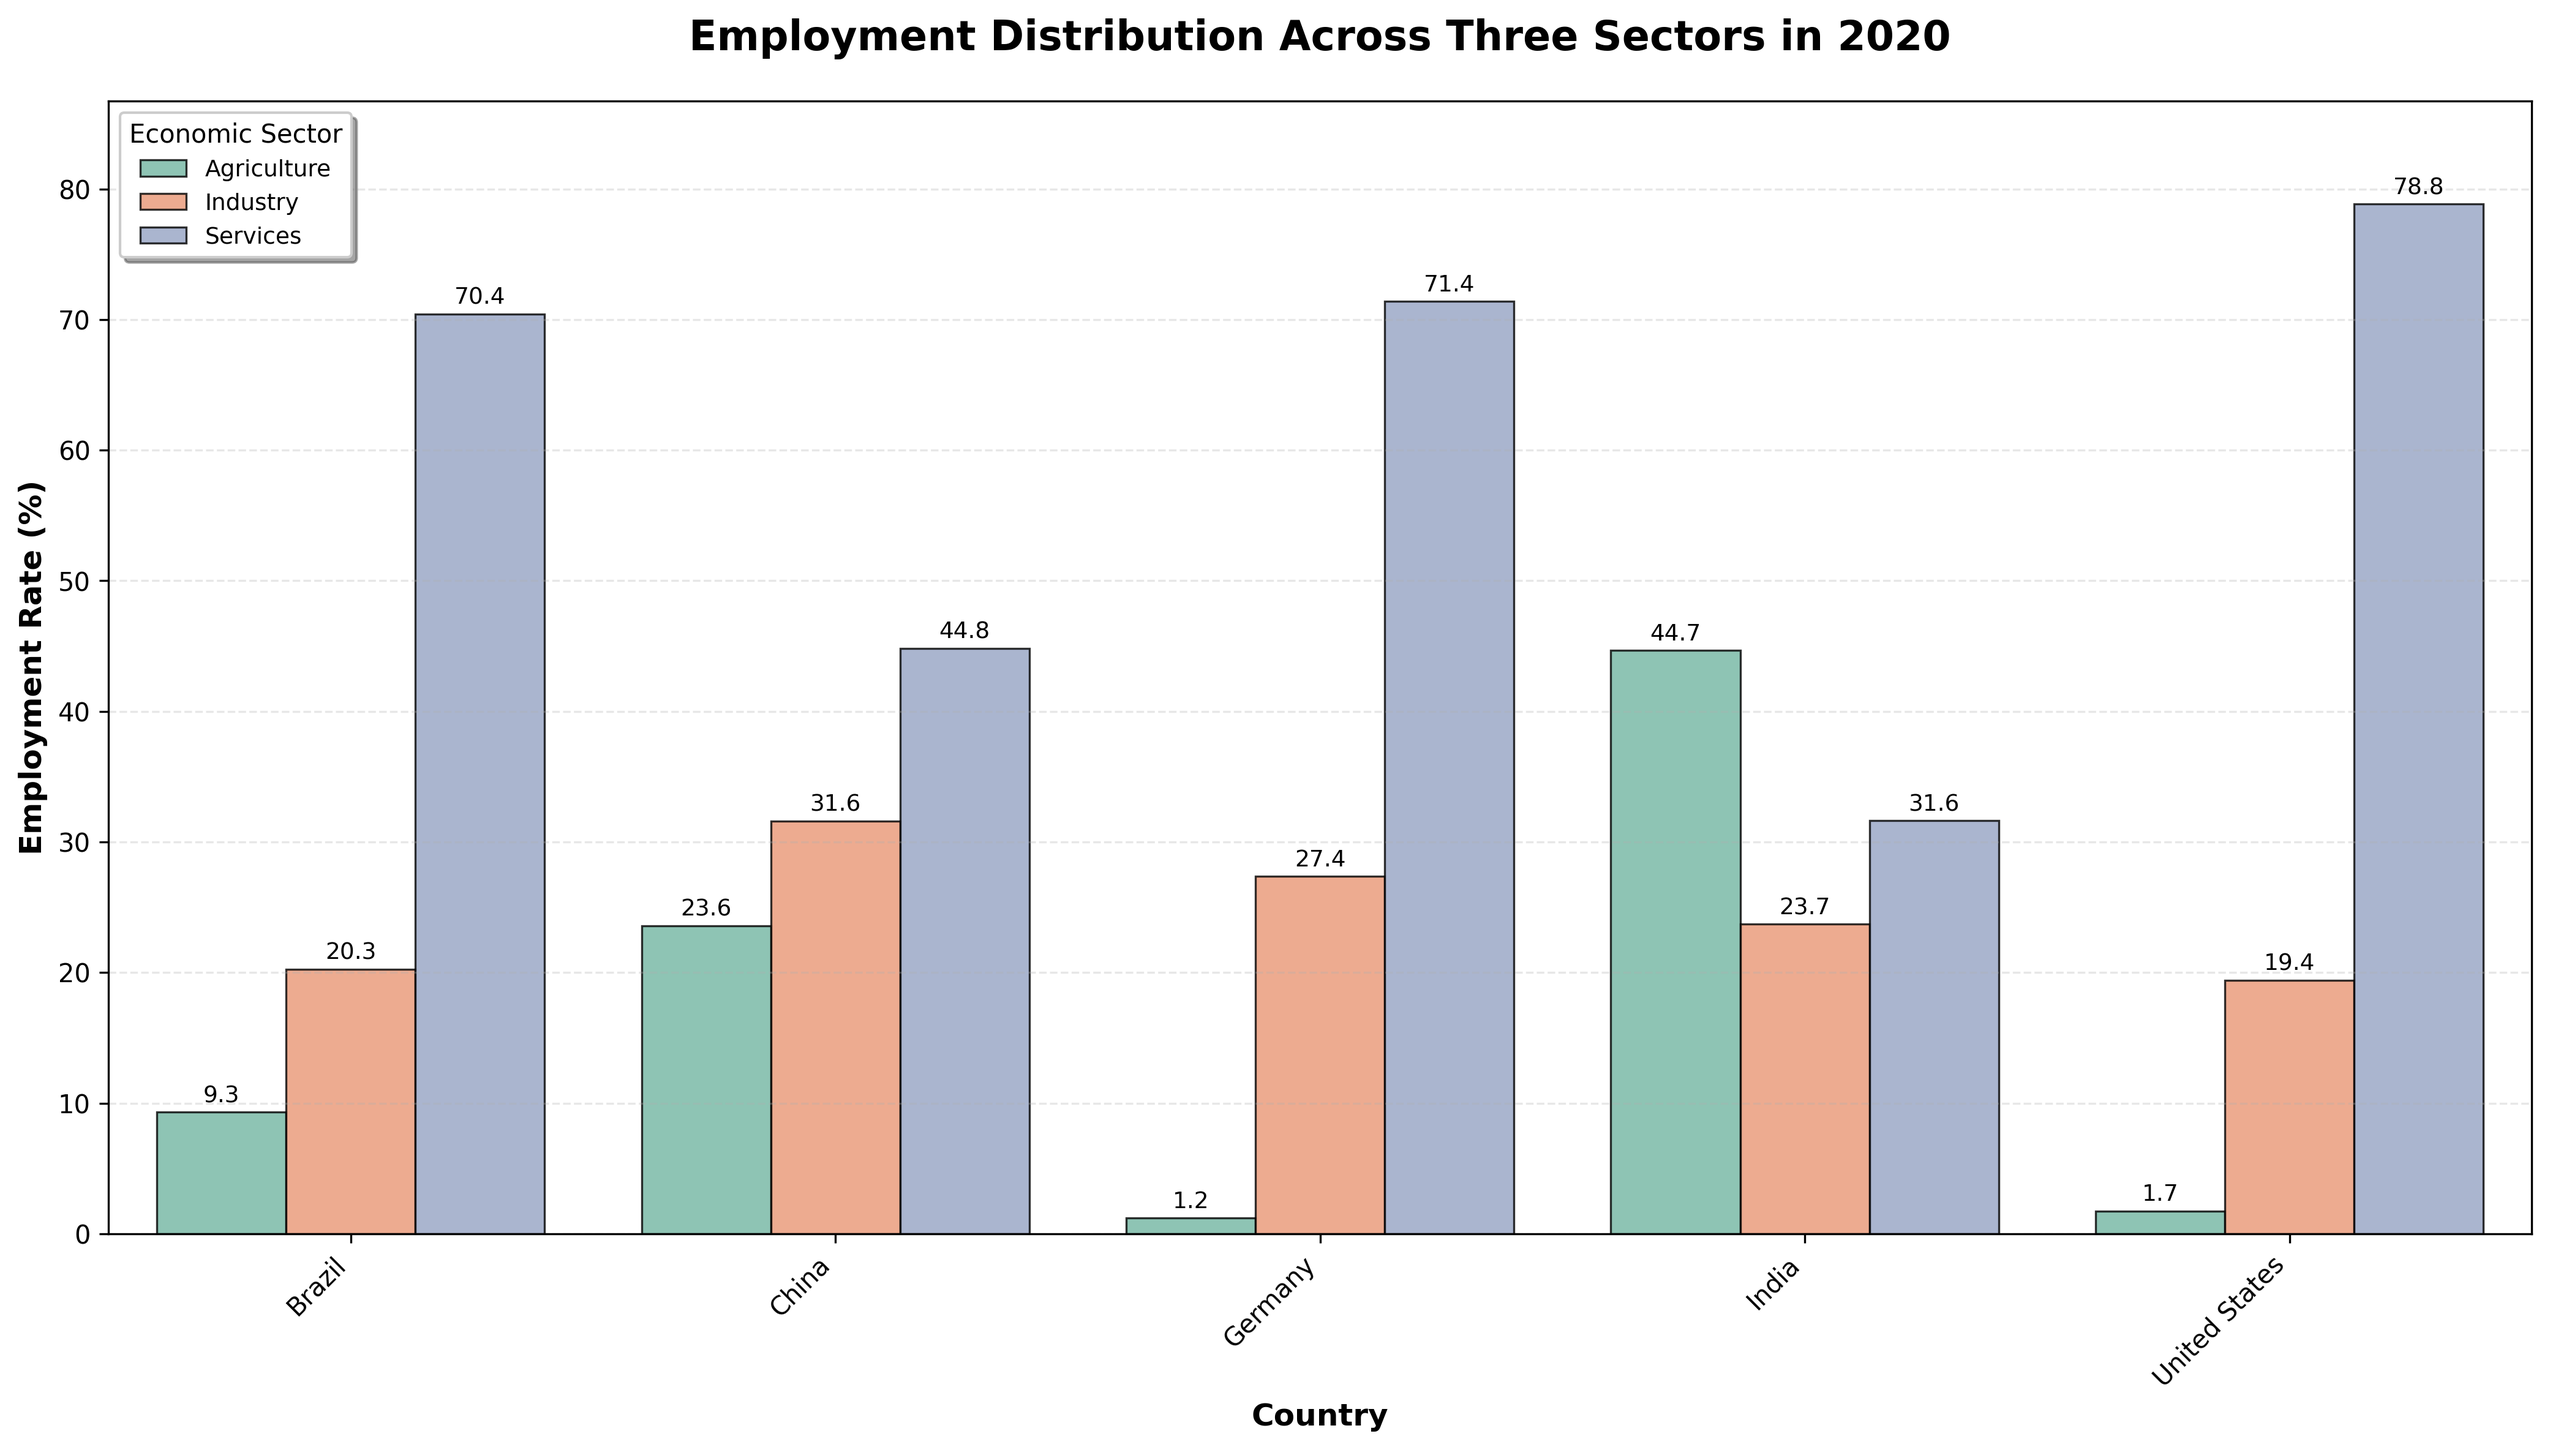
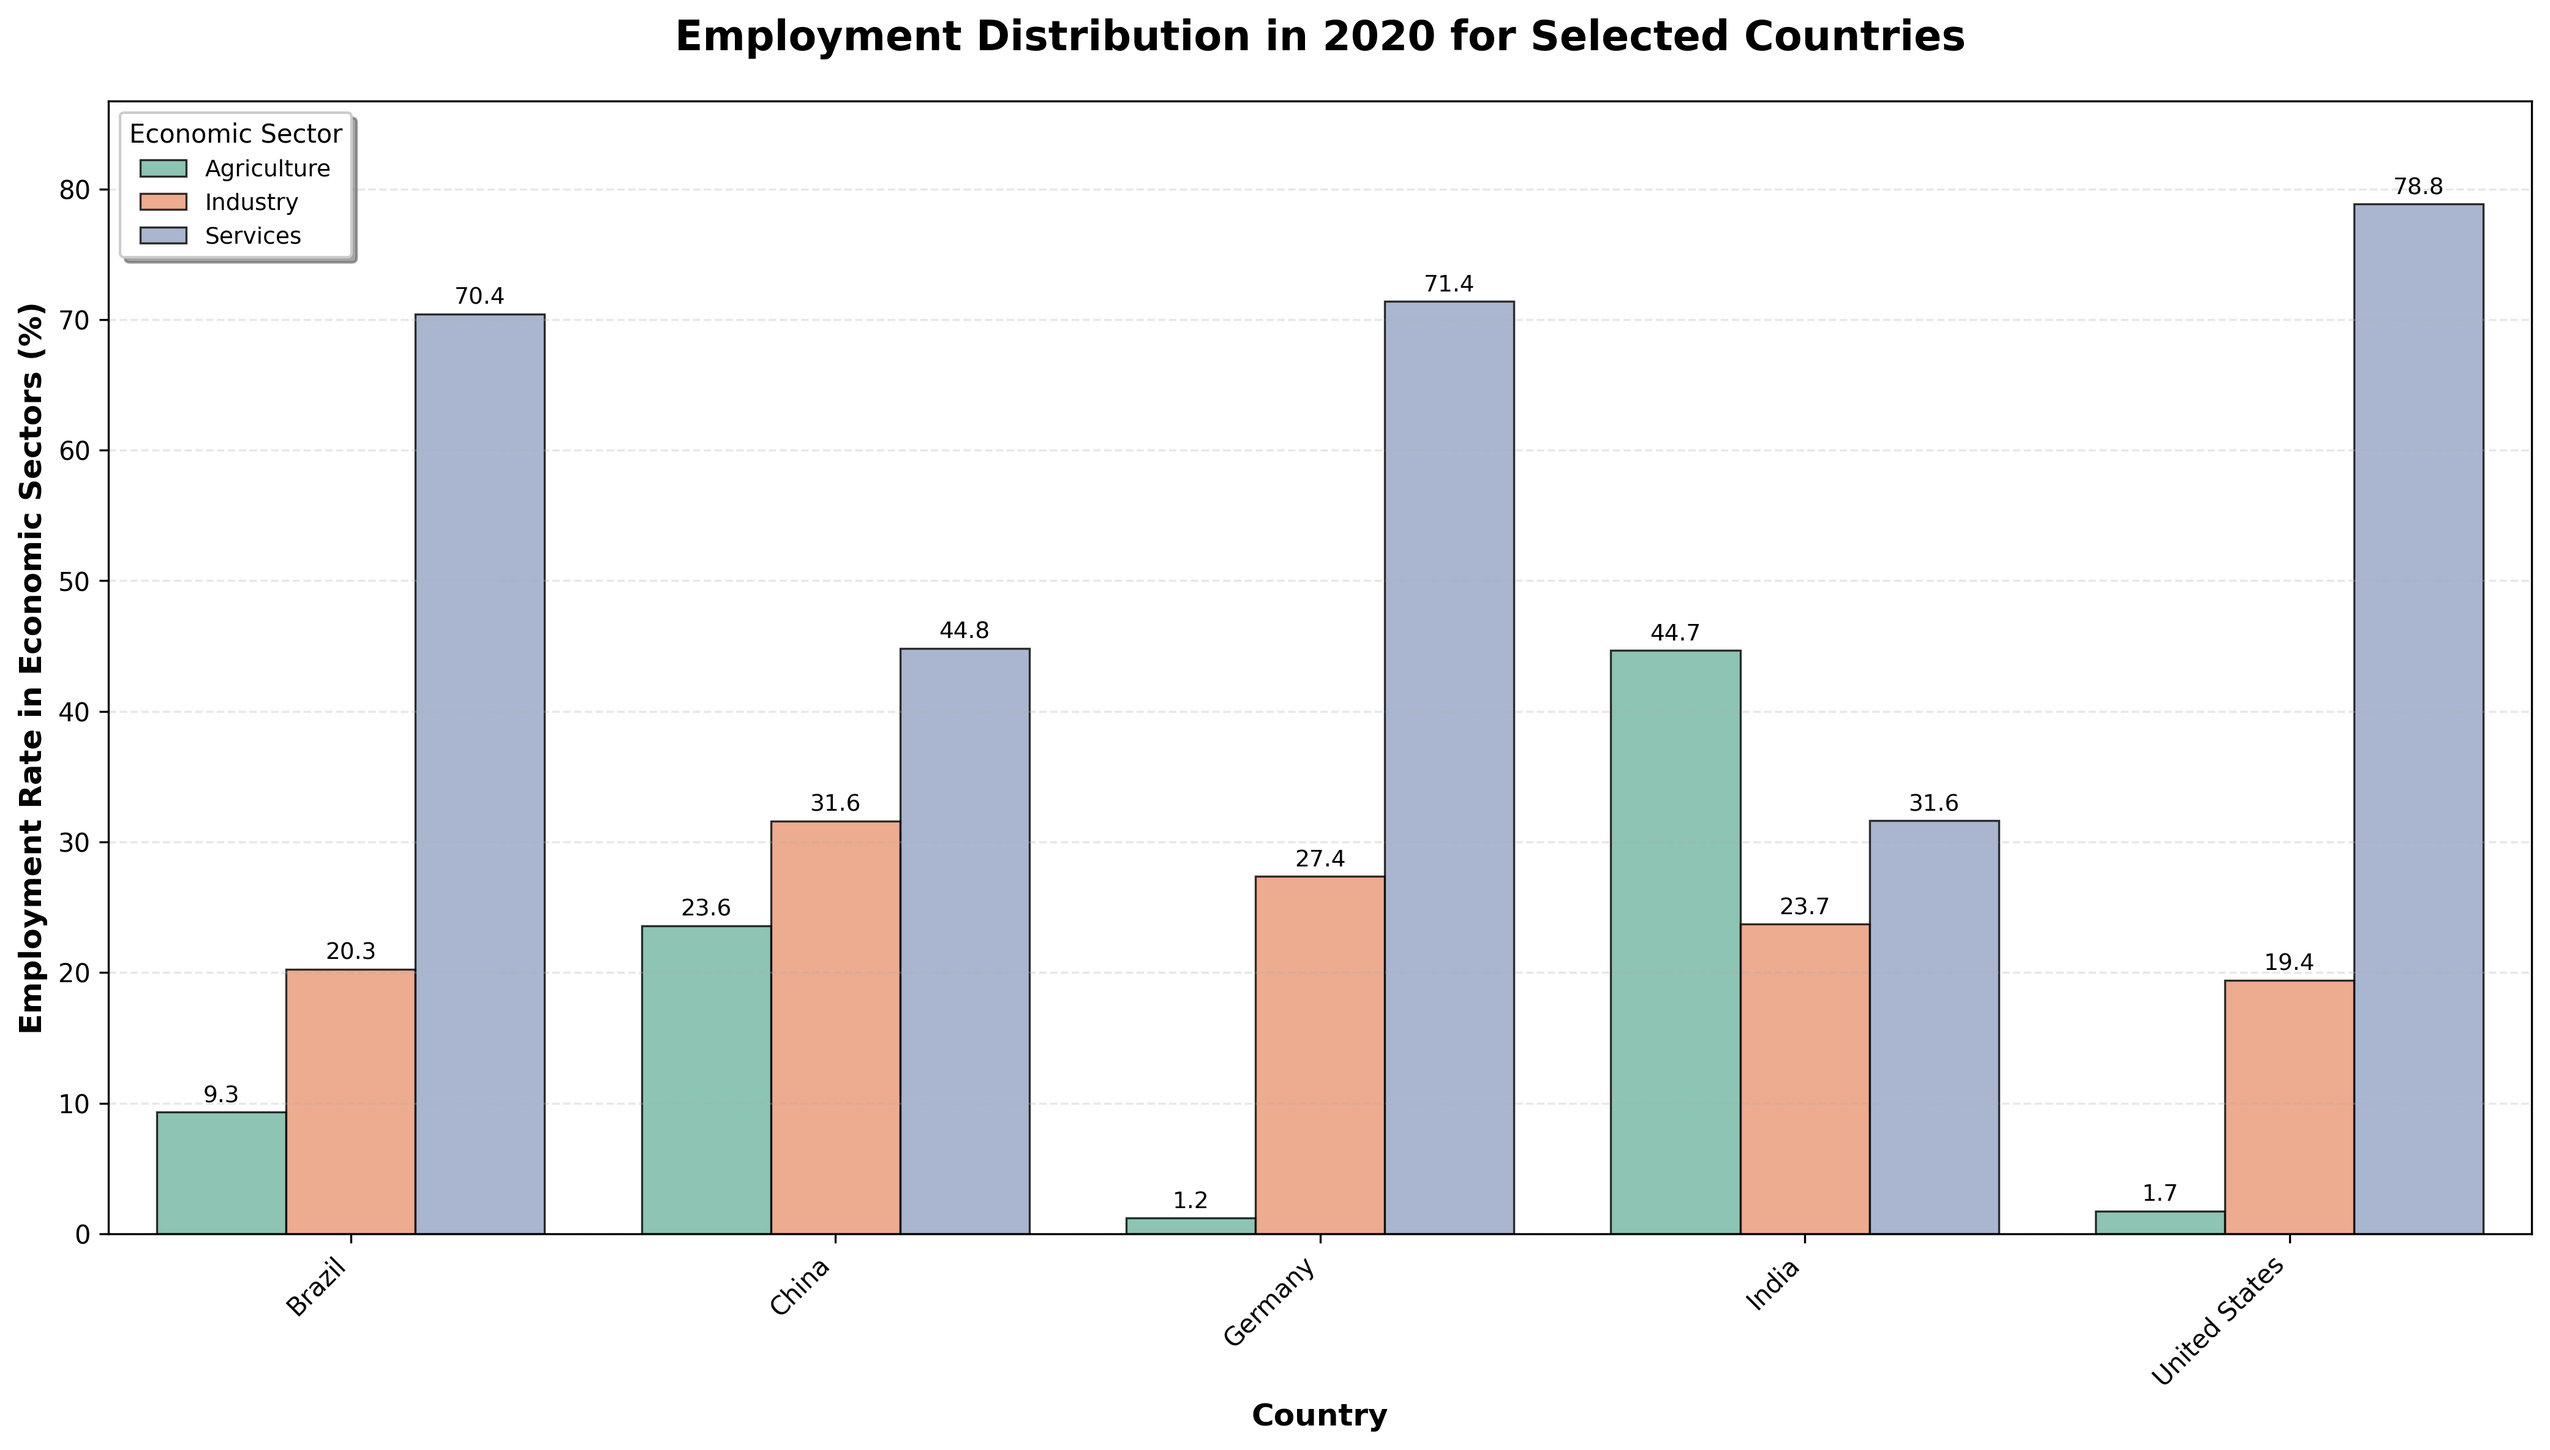
更新就业分布数据可视化分析报告，修改生成时间并调整图表标题和标签，以更清晰地反映数据内容。

Changed region(s): [[0.2498, 0.0, 0.7805, 0.0625], [0.0, 0.2812, 0.0312, 0.7188], [0.0, 0.2188, 0.0312, 0.25]]

diff --git a/data_visualization/a2/task1_employment.py b/data_visualization/a2/task1_employment.py
@@ -252,13 +252,15 @@ def create_grouped_bar_chart(data, year):
 
     # 设置标题和标签
     plt.title(
-        f"Employment Distribution Across Three Sectors in {year}",
+        f"Employment Distribution in {year} for Selected Countries",
         fontsize=16,
         fontweight="bold",
         pad=20,
     )
     plt.xlabel("Country", fontsize=12, fontweight="bold")
-    plt.ylabel("Employment Rate (%)", fontsize=12, fontweight="bold")
+    plt.ylabel(
+        "Employment Rate in Economic Sectors (%)", fontsize=12, fontweight="bold"
+    )
 
     # 设置图例
     plt.legend(

diff --git a/data_visualization/a2/task1_employment.md b/data_visualization/a2/task1_employment.md
@@ -1,6 +1,6 @@
 # 就业分布数据可视化分析报告
 
-**生成时间**: 2025-10-02 19:27:08
+**生成时间**: 2025-10-02 20:08:24
 
 ## 1. 数据集基本信息
 
